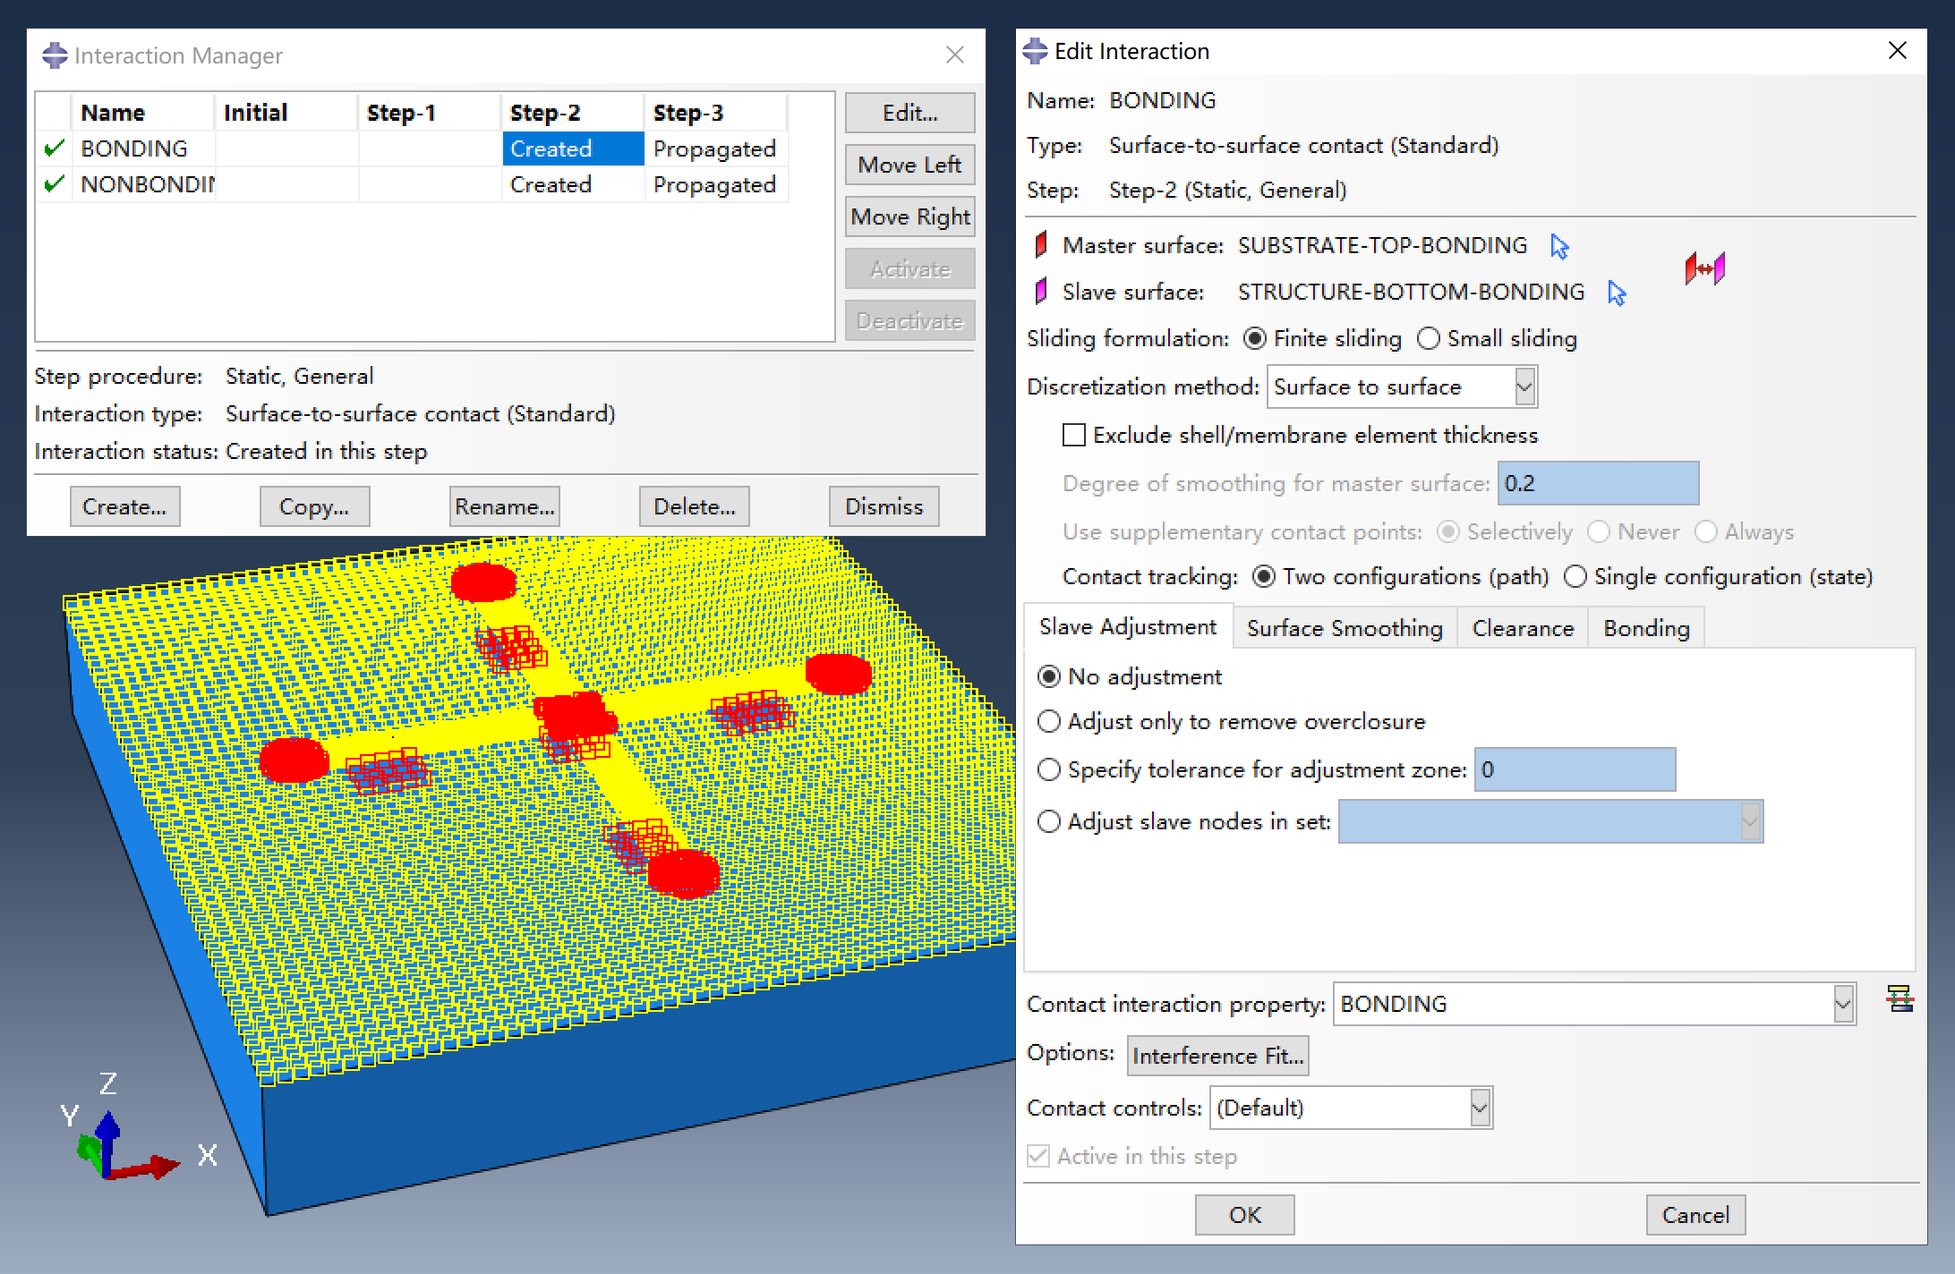
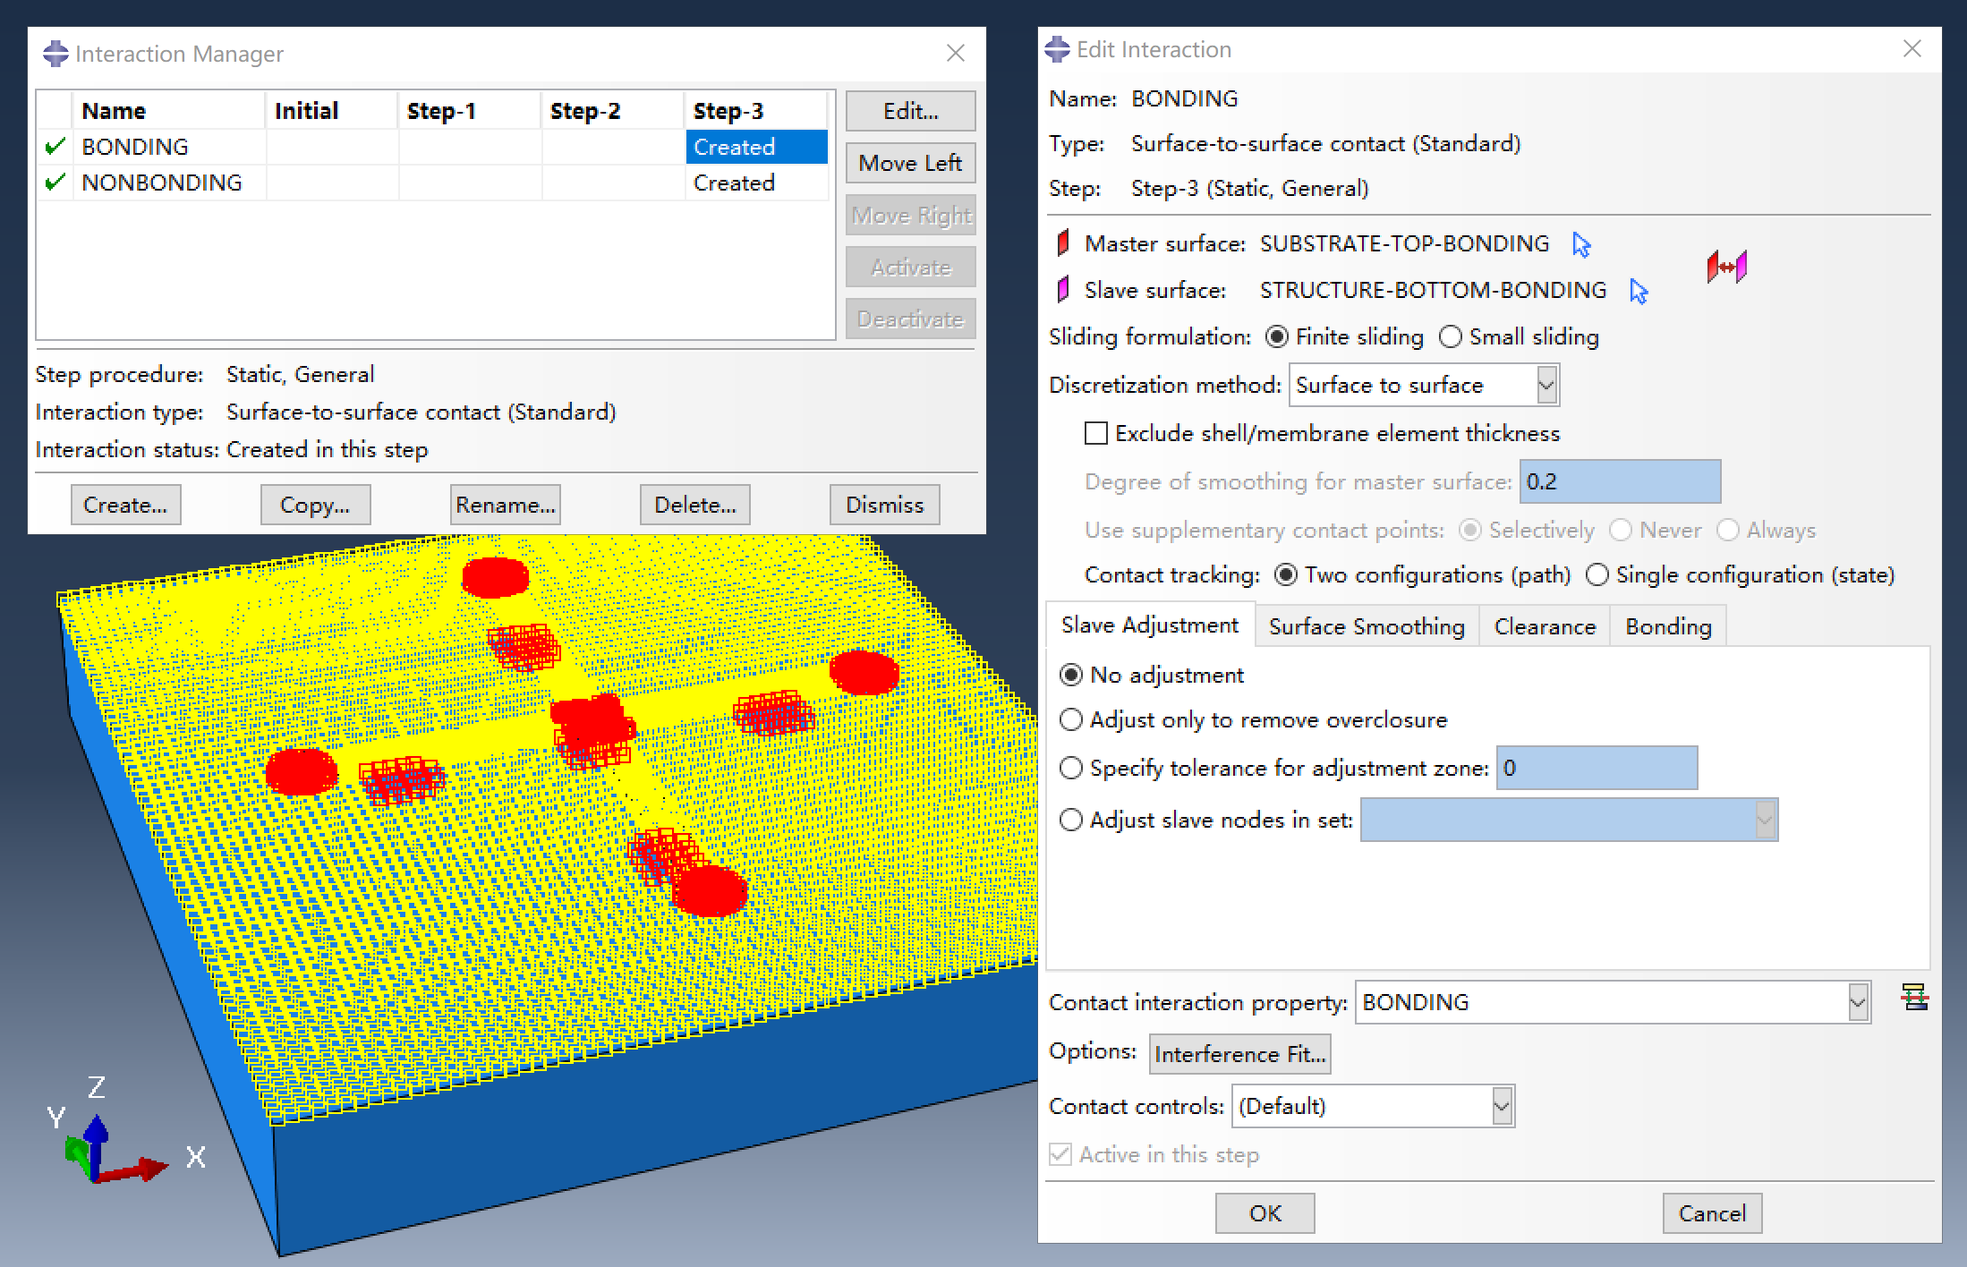
Change structure section assignment from middle surface to bottom surface

diff --git a/with_substrate/main-with_substrate.py b/with_substrate/main-with_substrate.py
@@ -28,7 +28,7 @@ MY_SUBSTRATE_X_LEN = 3.0
 MY_SUBSTRATE_Y_LEN = 3.0
 MY_SUBSTRATE_MATERIAL_EMOD = 1e0
 MY_SUBSTRATE_SHELL_THICKNESS = 0.5
-MY_SUBSTRATE_MESH_SEED_SIZE = 0.05
+MY_SUBSTRATE_MESH_SEED_SIZE = 0.04
 MY_SUBSTRATE_MESH_SEED_DEVIATION_FACTOR = 0.1  # Set to `None` to disable.
 MY_SUBSTRATE_MESH_SEED_MIN_SIZE_FACTOR = 0.1
 
@@ -40,6 +40,9 @@ MY_FOUTPUT_VARIABLES = ['U', 'S', 'LE', 'CSTATUS']
 MY_STEP_1_FOUTPUT_NUM = 10  # Set to `None` to disable.
 MY_STEP_3_FOUTPUT_NUM = 10  # Set to `None` to disable.
 MY_ENABLE_RESTART = False
+
+MY_STEP_3_INITIAL_INC = 1e-5  # Step-3 convergence can be sensitive to this value.
+MY_STEP_3_MIN_INC = 1e-5
 
 
 def M1000_new_model_1():
@@ -84,7 +87,11 @@ def M1030_create_structure_material_and_section():
     )
     del part.sectionAssignments[:]
     part_face_set = part.Set(faces=part.faces, name='FACES-ALL')
-    part.SectionAssignment(region=part_face_set, sectionName='Section-1')
+    part.SectionAssignment(
+        region=part_face_set,
+        sectionName='Section-1',
+        offsetType=BOTTOM_SURFACE,
+    )
 
     viewport = session.viewports['Viewport: 1']
     viewport.setValues(displayedObject=part)
@@ -99,7 +106,7 @@ def M1040_create_structure_instance():
     assembly.Instance(name='STRUCTURE', part=part, dependent=OFF)
     assembly.translate(
         instanceList=['STRUCTURE'],
-        vector=(0.0, 0.0, MY_STRUCTURE_SHELL_THICKNESS/2.0+MY_INITIAL_SEPARATION),
+        vector=(0.0, 0.0, MY_INITIAL_SEPARATION),
     )
 
     viewport = session.viewports['Viewport: 1']
@@ -248,9 +255,9 @@ def M1100_create_step():
     model.StaticStep(
         name='Step-3',
         previous='Step-2',
-        initialInc=1e-5,
+        initialInc=MY_STEP_3_INITIAL_INC,
         maxNumInc=9999,
-        minInc=1e-5,
+        minInc=MY_STEP_3_MIN_INC,
         maxInc=1.0,
         nlgeom=ON,
     )
@@ -330,15 +337,15 @@ def M1110_create_contact():
             except (AssertionError, ValueError):
                 raise ValueError('Invalid bonding format at line {}: {}'.format(line_num+1, line))
             selected_structure_bonding_nodes += structure_nodes.getByBoundingCylinder(
-                center1=(xc, yc, MY_STRUCTURE_SHELL_THICKNESS/2.0+MY_INITIAL_SEPARATION-EPS),
-                center2=(xc, yc, MY_STRUCTURE_SHELL_THICKNESS/2.0+MY_INITIAL_SEPARATION+EPS),
+                center1=(xc, yc, MY_INITIAL_SEPARATION-EPS),
+                center2=(xc, yc, MY_INITIAL_SEPARATION+EPS),
                 radius=r+EPS,
             )
             # The following code only selects the elements that are completely
             # inside the cylinder (i.e., not touching the cylinder boundary).
             selected_structure_bonding_elements += structure_elements.getByBoundingCylinder(
-                center1=(xc, yc, MY_STRUCTURE_SHELL_THICKNESS/2.0+MY_INITIAL_SEPARATION-EPS),
-                center2=(xc, yc, MY_STRUCTURE_SHELL_THICKNESS/2.0+MY_INITIAL_SEPARATION+EPS),
+                center1=(xc, yc, MY_INITIAL_SEPARATION-EPS),
+                center2=(xc, yc, MY_INITIAL_SEPARATION+EPS),
                 radius=r+EPS,
             )
             # To ensure the substrate bonding regions fully cover the structure
@@ -360,12 +367,12 @@ def M1110_create_contact():
             except (AssertionError, ValueError):
                 raise ValueError('Invalid bonding format at line {}: {}'.format(line_num+1, line))
             selected_structure_bonding_nodes += structure_nodes.getByBoundingBox(
-                x1-EPS, y1-EPS, MY_STRUCTURE_SHELL_THICKNESS/2.0+MY_INITIAL_SEPARATION-EPS,
-                x2+EPS, y2+EPS, MY_STRUCTURE_SHELL_THICKNESS/2.0+MY_INITIAL_SEPARATION+EPS,
+                x1-EPS, y1-EPS, MY_INITIAL_SEPARATION-EPS,
+                x2+EPS, y2+EPS, MY_INITIAL_SEPARATION+EPS,
             )
             selected_structure_bonding_elements += structure_elements.getByBoundingBox(
-                x1-EPS, y1-EPS, MY_STRUCTURE_SHELL_THICKNESS/2.0+MY_INITIAL_SEPARATION-EPS,
-                x2+EPS, y2+EPS, MY_STRUCTURE_SHELL_THICKNESS/2.0+MY_INITIAL_SEPARATION+EPS,
+                x1-EPS, y1-EPS, MY_INITIAL_SEPARATION-EPS,
+                x2+EPS, y2+EPS, MY_INITIAL_SEPARATION+EPS,
             )
             # As explained above, we first select substrate nodes for later
             # element selection (outside this loop).
@@ -420,7 +427,7 @@ def M1110_create_contact():
     bonding_contact.TangentialBehavior(formulation=ROUGH)
     model.SurfaceToSurfaceContactStd(
         name='BONDING',
-        createStepName='Step-2',
+        createStepName='Step-3',
         master=assembly.surfaces['SUBSTRATE-TOP-BONDING'],
         slave=assembly.surfaces['STRUCTURE-BOTTOM-BONDING'],
         sliding=FINITE,
@@ -433,7 +440,7 @@ def M1110_create_contact():
     nonbonding_contact.TangentialBehavior(formulation=FRICTIONLESS)
     model.SurfaceToSurfaceContactStd(
         name='NONBONDING',
-        createStepName='Step-2',
+        createStepName='Step-3',
         master=assembly.surfaces['SUBSTRATE-TOP-NONBONDING'],
         slave=assembly.surfaces['STRUCTURE-BOTTOM-NONBONDING'],
         sliding=FINITE,

diff --git a/ultraflexible/main-ultraflexible.py b/ultraflexible/main-ultraflexible.py
@@ -85,7 +85,11 @@ def M1030_create_material_and_section():
     )
     del part.sectionAssignments[:]
     part_face_set = part.Set(faces=part.faces, name='FACES-ALL')
-    part.SectionAssignment(region=part_face_set, sectionName='Section-1')
+    part.SectionAssignment(
+        region=part_face_set,
+        sectionName='Section-1',
+        offsetType=BOTTOM_SURFACE,
+    )
 
     viewport = session.viewports['Viewport: 1']
     viewport.setValues(displayedObject=part)
@@ -98,7 +102,6 @@ def M1040_create_instance():
     part = model.parts['STRUCTURE']
     assembly = model.rootAssembly
     assembly.Instance(name='STRUCTURE', part=part, dependent=OFF)
-    assembly.translate(instanceList=['STRUCTURE'], vector=[0.0, 0.0, MY_SHELL_THICKNESS/2.0])
 
     viewport = session.viewports['Viewport: 1']
     viewport.setValues(displayedObject=assembly)
@@ -213,20 +216,13 @@ def M1070_create_bonding_bc():
                 xc, yc, r, rotatable = _parse_circular_bonding(values)
             except (AssertionError, ValueError):
                 raise ValueError('Invalid bonding format at line {}: {}'.format(line_num+1, line))
-            bonding_nodes = nodes.getByBoundingCylinder(
-                [xc, yc, MY_SHELL_THICKNESS/2.0-EPS],
-                [xc, yc, MY_SHELL_THICKNESS/2.0+EPS],
-                r+EPS,
-            )
+            bonding_nodes = nodes.getByBoundingCylinder([xc, yc, -EPS], [xc, yc, +EPS],r+EPS)
         elif values[0].upper() == 'RECT':
             try:
                 x1, y1, x2, y2, rotatable = _parse_rectangular_bonding(values)
             except (AssertionError, ValueError):
                 raise ValueError('Invalid bonding format at line {}: {}'.format(line_num+1, line))
-            bonding_nodes = nodes.getByBoundingBox(
-                x1-EPS, y1-EPS, MY_SHELL_THICKNESS/2.0-EPS,
-                x2+EPS, y2+EPS, MY_SHELL_THICKNESS/2.0+EPS,
-            )
+            bonding_nodes = nodes.getByBoundingBox(x1-EPS, y1-EPS, -EPS, x2+EPS, y2+EPS, +EPS)
             xc = 0.5*(x1+x2)
             yc = 0.5*(y1+y2)
         else:

diff --git a/attachment/main-attachment.py b/attachment/main-attachment.py
@@ -13,7 +13,7 @@ MY_ATTACHMENT_DXF_NAME = 'attachment'
 MY_ATTACHMENT_MATERIAL_EMOD = 79e3
 MY_ATTACHMENT_MATERIAL_POISON = 0.42
 MY_ATTACHMENT_SHELL_THICKNESS = 10e-6
-MY_ATTACHMENT_Z_OFFSET = 5e-3
+MY_ATTACHMENT_Z_OFFSET = 10e-3  # Offset relative to the carrier bottom surface.
 MY_ATTACHMENT_MESH_SEED_SIZE = 0.01
 MY_ATTACHMENT_MESH_SEED_DEVIATION_FACTOR = 0.1  # Set to `None` to disable.
 MY_ATTACHMENT_MESH_SEED_MIN_SIZE_FACTOR = 0.1
@@ -54,7 +54,11 @@ def M1030_create_attachment_material_and_section():
     )
     del part.sectionAssignments[:]
     part_face_set = part.Set(faces=part.faces, name='FACES-ALL')
-    part.SectionAssignment(region=part_face_set, sectionName='Section-ATTACHMENT')
+    part.SectionAssignment(
+        region=part_face_set,
+        sectionName='Section-ATTACHMENT',
+        offsetType=MIDDLE_SURFACE,
+    )
 
     viewport = session.viewports['Viewport: 1']
     viewport.setValues(displayedObject=part)
@@ -64,8 +68,8 @@ def M1030_create_attachment_material_and_section():
 
 def M1040_create_attachment_instance():
     model = mdb.models[MY_CARRIER_MODEL_NAME]
-    part = model.parts['ATTACHMENT']
     assembly = model.rootAssembly
+    part = model.parts['ATTACHMENT']
     instance = assembly.Instance(name='ATTACHMENT', part=part, dependent=OFF)
     assembly.translate(
         instanceList=[instance.name],

diff --git a/attachment/main-classical.py b/attachment/main-classical.py
@@ -77,7 +77,11 @@ def M1030_create_material_and_section():
     )
     del part.sectionAssignments[:]
     part_face_set = part.Set(faces=part.faces, name='FACES-ALL')
-    part.SectionAssignment(region=part_face_set, sectionName='Section-1')
+    part.SectionAssignment(
+        region=part_face_set,
+        sectionName='Section-1',
+        offsetType=BOTTOM_SURFACE,
+    )
 
     viewport = session.viewports['Viewport: 1']
     viewport.setValues(displayedObject=part)

diff --git a/classical/main-classical.py b/classical/main-classical.py
@@ -77,7 +77,11 @@ def M1030_create_material_and_section():
     )
     del part.sectionAssignments[:]
     part_face_set = part.Set(faces=part.faces, name='FACES-ALL')
-    part.SectionAssignment(region=part_face_set, sectionName='Section-1')
+    part.SectionAssignment(
+        region=part_face_set,
+        sectionName='Section-1',
+        offsetType=BOTTOM_SURFACE,
+    )
 
     viewport = session.viewports['Viewport: 1']
     viewport.setValues(displayedObject=part)

diff --git a/curved/main-classical.py b/curved/main-classical.py
@@ -77,7 +77,11 @@ def M1030_create_material_and_section():
     )
     del part.sectionAssignments[:]
     part_face_set = part.Set(faces=part.faces, name='FACES-ALL')
-    part.SectionAssignment(region=part_face_set, sectionName='Section-1')
+    part.SectionAssignment(
+        region=part_face_set,
+        sectionName='Section-1',
+        offsetType=BOTTOM_SURFACE,
+    )
 
     viewport = session.viewports['Viewport: 1']
     viewport.setValues(displayedObject=part)

diff --git a/curved/substrate_under_poking/generate_membrane_under_poking.py b/curved/substrate_under_poking/generate_membrane_under_poking.py
@@ -94,10 +94,12 @@ del membrane_part.sectionAssignments[:]
 membrane_part.SectionAssignment(
     region=membrane_part.sets['CELLS-ELASTIC'],
     sectionName='HOMOSHELL-ELASTOMER',
+    offsetType=MIDDLE_SURFACE,
 )
 membrane_part.SectionAssignment(
     region=membrane_part.sets['CELLS-RIGID'],
     sectionName='HOMOSHELL-RIGID',
+    offsetType=MIDDLE_SURFACE,
 )
 
 membrane_instance = assembly.Instance(name='MEMBRANE', part=membrane_part, dependent=OFF)

diff --git a/with_substrate/README.md b/with_substrate/README.md
@@ -8,9 +8,9 @@ The FEA model consists of a hyperelastic substrate and a structure, which is ini
 
 1. **Step-1:** Pre-stretch the substrate to a specified prestrain.
 
-2. **Step-2:** Press the bonding regions of the structure onto the substrate to bring them into contact, forming adhesion.
+2. **Step-2:** Press the bonding regions of the structure onto the substrate.
 
-3. **Step-3:** Release the prestrain, allowing the structure to buckle and self-assemble.
+3. **Step-3:** Establish contact interactions between the substrate and the structure. Release the prestrain in the substrate, allowing the structure to buckle and self-assemble.
 
 ## Details of the simulation
 
@@ -25,22 +25,24 @@ The substrate is modeled as a Neo-Hookean solid. In the script, the Neo-Hookean 
 Two distinct contact interactions are defined in the simulation:
 
 1. **Bonding regions:**  
-    - *Normal behavior:* Hard contact, separation not allowed after contact.  
-    - *Tangential behavior:* Rough.
+    - **Normal behavior:** Hard contact, separation not allowed after contact.  
+    - **Tangential behavior:** Rough.
 
 2. **Non-bonding regions:**  
-    - *Normal behavior:* Hard contact, separation allowed after contact.  
-    - *Tangential behavior:* Frictionless.
+    - **Normal behavior:** Hard contact, separation allowed after contact.  
+    - **Tangential behavior:** Frictionless.
 
 The top surface of the substrate and the corresponding surface of the structure are each divided into complementary sets representing bonding and non-bonding regions. Contact interactions are assigned between matching sets on the structure and substrate. Since the substrate is pre-stretched before bonding, the bonding region on the substrate is determined based on the applied prestrain during model setup.
 
-- **Contact status (structure side) after Step-2**
+- **Contact status (structure side) at the beginning of Step-3**
 
-    <img src="./assets/contact_status_step_2.png" width="400">
+    <img src="./assets/contact_status_0.png" width="400">
 
-- **Contact status (structure side) after Step-3**
+- **Contact status (structure side) at the end of Step-3**
 
-    <img src="./assets/contact_status_step_3.png" width="400">
+    <img src="./assets/contact_status_1.png" width="400">
+
+Note that the contact interaction is established in `Step-3`. This approach helps the contact detection work correctly. If the contact interaction is defined in `Step-2`, Abaqus may sometimes fail to detect contact between the structure and the substrate, since the structure can attach to the substrate within a single time increment, potentially causing the contact algorithm to miss the interaction.
 
 ### Displacement boundary conditions
 
@@ -60,15 +62,15 @@ Three groups of displacement boundary conditions are applied in the simulation:
 
 2. **Bonding the structure to the substrate**
 
-    In `Step-2`, the structure is pressed downward onto the substrate to establish contact in the bonding regions. Once contact is achieved, this displacement boundary condition is removed in `Step-3`.
+    In `Step-2`, the structure is pressed downward onto the substrate. At the beginning of `Step-3`, the contact interaction is established between the substrate and the structure. The displacement boundary condition is then removed.
 
 3. **Controlling substrate motion and ensuring contact**
 
-    The exterior edges of the substrate's top surface are constrained with `u3=0` throughout all steps. This prevents rigid body motion along the z-axis. Additionally, the interior nodes of the substrate's top surface are also fixed at `u3=0` throughout `Step-2`, ensuring that all nodes in the bonding region of the structure achieve proper contact with the substrate. In `Step-3`, this constraint on the interior top surface is removed, allowing them to move freely.
+    The **exterior** edges of the substrate's top surface are constrained with `u3=0` throughout all steps to prevent rigid body motion along the z-axis. Additionally, the **interior** nodes of the substrate's top surface are fixed at `u3=0` during `Step-2`, ensuring that all nodes in the bonding region of the structure meet the substrate. In `Step-3`, this constraint on the interior top surface is removed, allowing these nodes to move freely.
 
 ### Improving simulation convergence
 
-Because no external disturbance is applied to the structure, the assembly step (`Step-3`) can initially be difficult to converge. It is recommended to use a very small initial time increment (e.g., 1e-5, as used in the script) to improve convergence. Using a relatively large initial time increment (e.g., 1e-3) may appear acceptable at first but can lead to significant convergence problems in later steps.
+Because no external disturbance is applied to the structure, the assembly step (`Step-3`) can be difficult to converge initially. From experience, it is recommended to use a very small initial time increment (e.g., 1e-5, as used in the script) to improve convergence. Using a relatively large initial time increment (e.g., 1e-3) may appear acceptable at first but can lead to significant convergence problems in later steps.
 
 ## Modeling workflow
 

diff --git a/attachment/README.md b/attachment/README.md
@@ -56,12 +56,16 @@ Attachments, such as metallic layers with complex features like strain gauges, o
 
     If `Job-2` fails to converge, consider enabling automatic stabilization as described in the notes below.
 
-## Notes
+## Notes on simulation
 
 When defining the tie constraint between the precursor (carrier structure) and the attachment, the carrier structure should be assigned as the **master** surface and the attachment as the **slave** surface. This is because the attachment typically has a finer mesh and lower stiffness. Displacement boundary conditions should be applied to the carrier structure (master surface), as the degrees of freedom for nodes on the slave surface are constrained. Any displacement boundary conditions applied to the slave surface will be ignored by Abaqus.
 
-The attachment instance is positioned with an offset from the neutral layer of the carrier structure, controlled by the parameter `MY_ATTACHMENT_Z_OFFSET` in `main-attachment.py`. As a result, the tie option **Exclude shell element thickness** is enabled.
+The attachment instance is positioned with an offset from the bottom layer of the carrier structure, controlled by the parameter `MY_ATTACHMENT_Z_OFFSET` in `main-attachment.py`. As a result, the tie option **Exclude shell element thickness** is enabled.
 
-To avoid potential element distortion caused by node adjustment, the tie option **Adjust slave surface initial position** is disabled.
+To prevent potential element distortion due to node adjustment, the tie option **Adjust slave surface initial position** is disabled. This choice is made for robustness; however, for improved accuracy, it is preferable to enable this option when a fine mesh is used.
 
 In some cases, `Job_2` may experience convergence issues. One way to address this is by enabling automatic stabilization in the step definition. Choose either **Specify dissipated energy fraction** or **Specify damping factor**. There is no universal rule for the stabilization factor, and some trial and error is usually required. In practice, the default value of 0.0002 is often sufficient, but smaller values such as 1E-6 or 1E-8 can help achieve convergence without noticeably impacting results. It is generally advised **not** to enable the **Use adaptive stabilization...** option for buckling assembly simulations, as this can lead to large oscillations in the step increment size (continuous reduction followed by gradual increase), which slows down the simulation or causes it to fail.
+
+## Notes on visualization
+
+Abaqus CAE supports **Render shell thickness**, but this feature has a limitation: the thickness is always rendered along the initial normal direction of the shell element. When the shell undergoes significant rotation, the displayed thickness may not match the actual thickness in the deformed state. This can create the appearance of a gap between the attachment and the carrier structure. Regardless, this is purely a visualization issue and has nothing to do with simulation.
